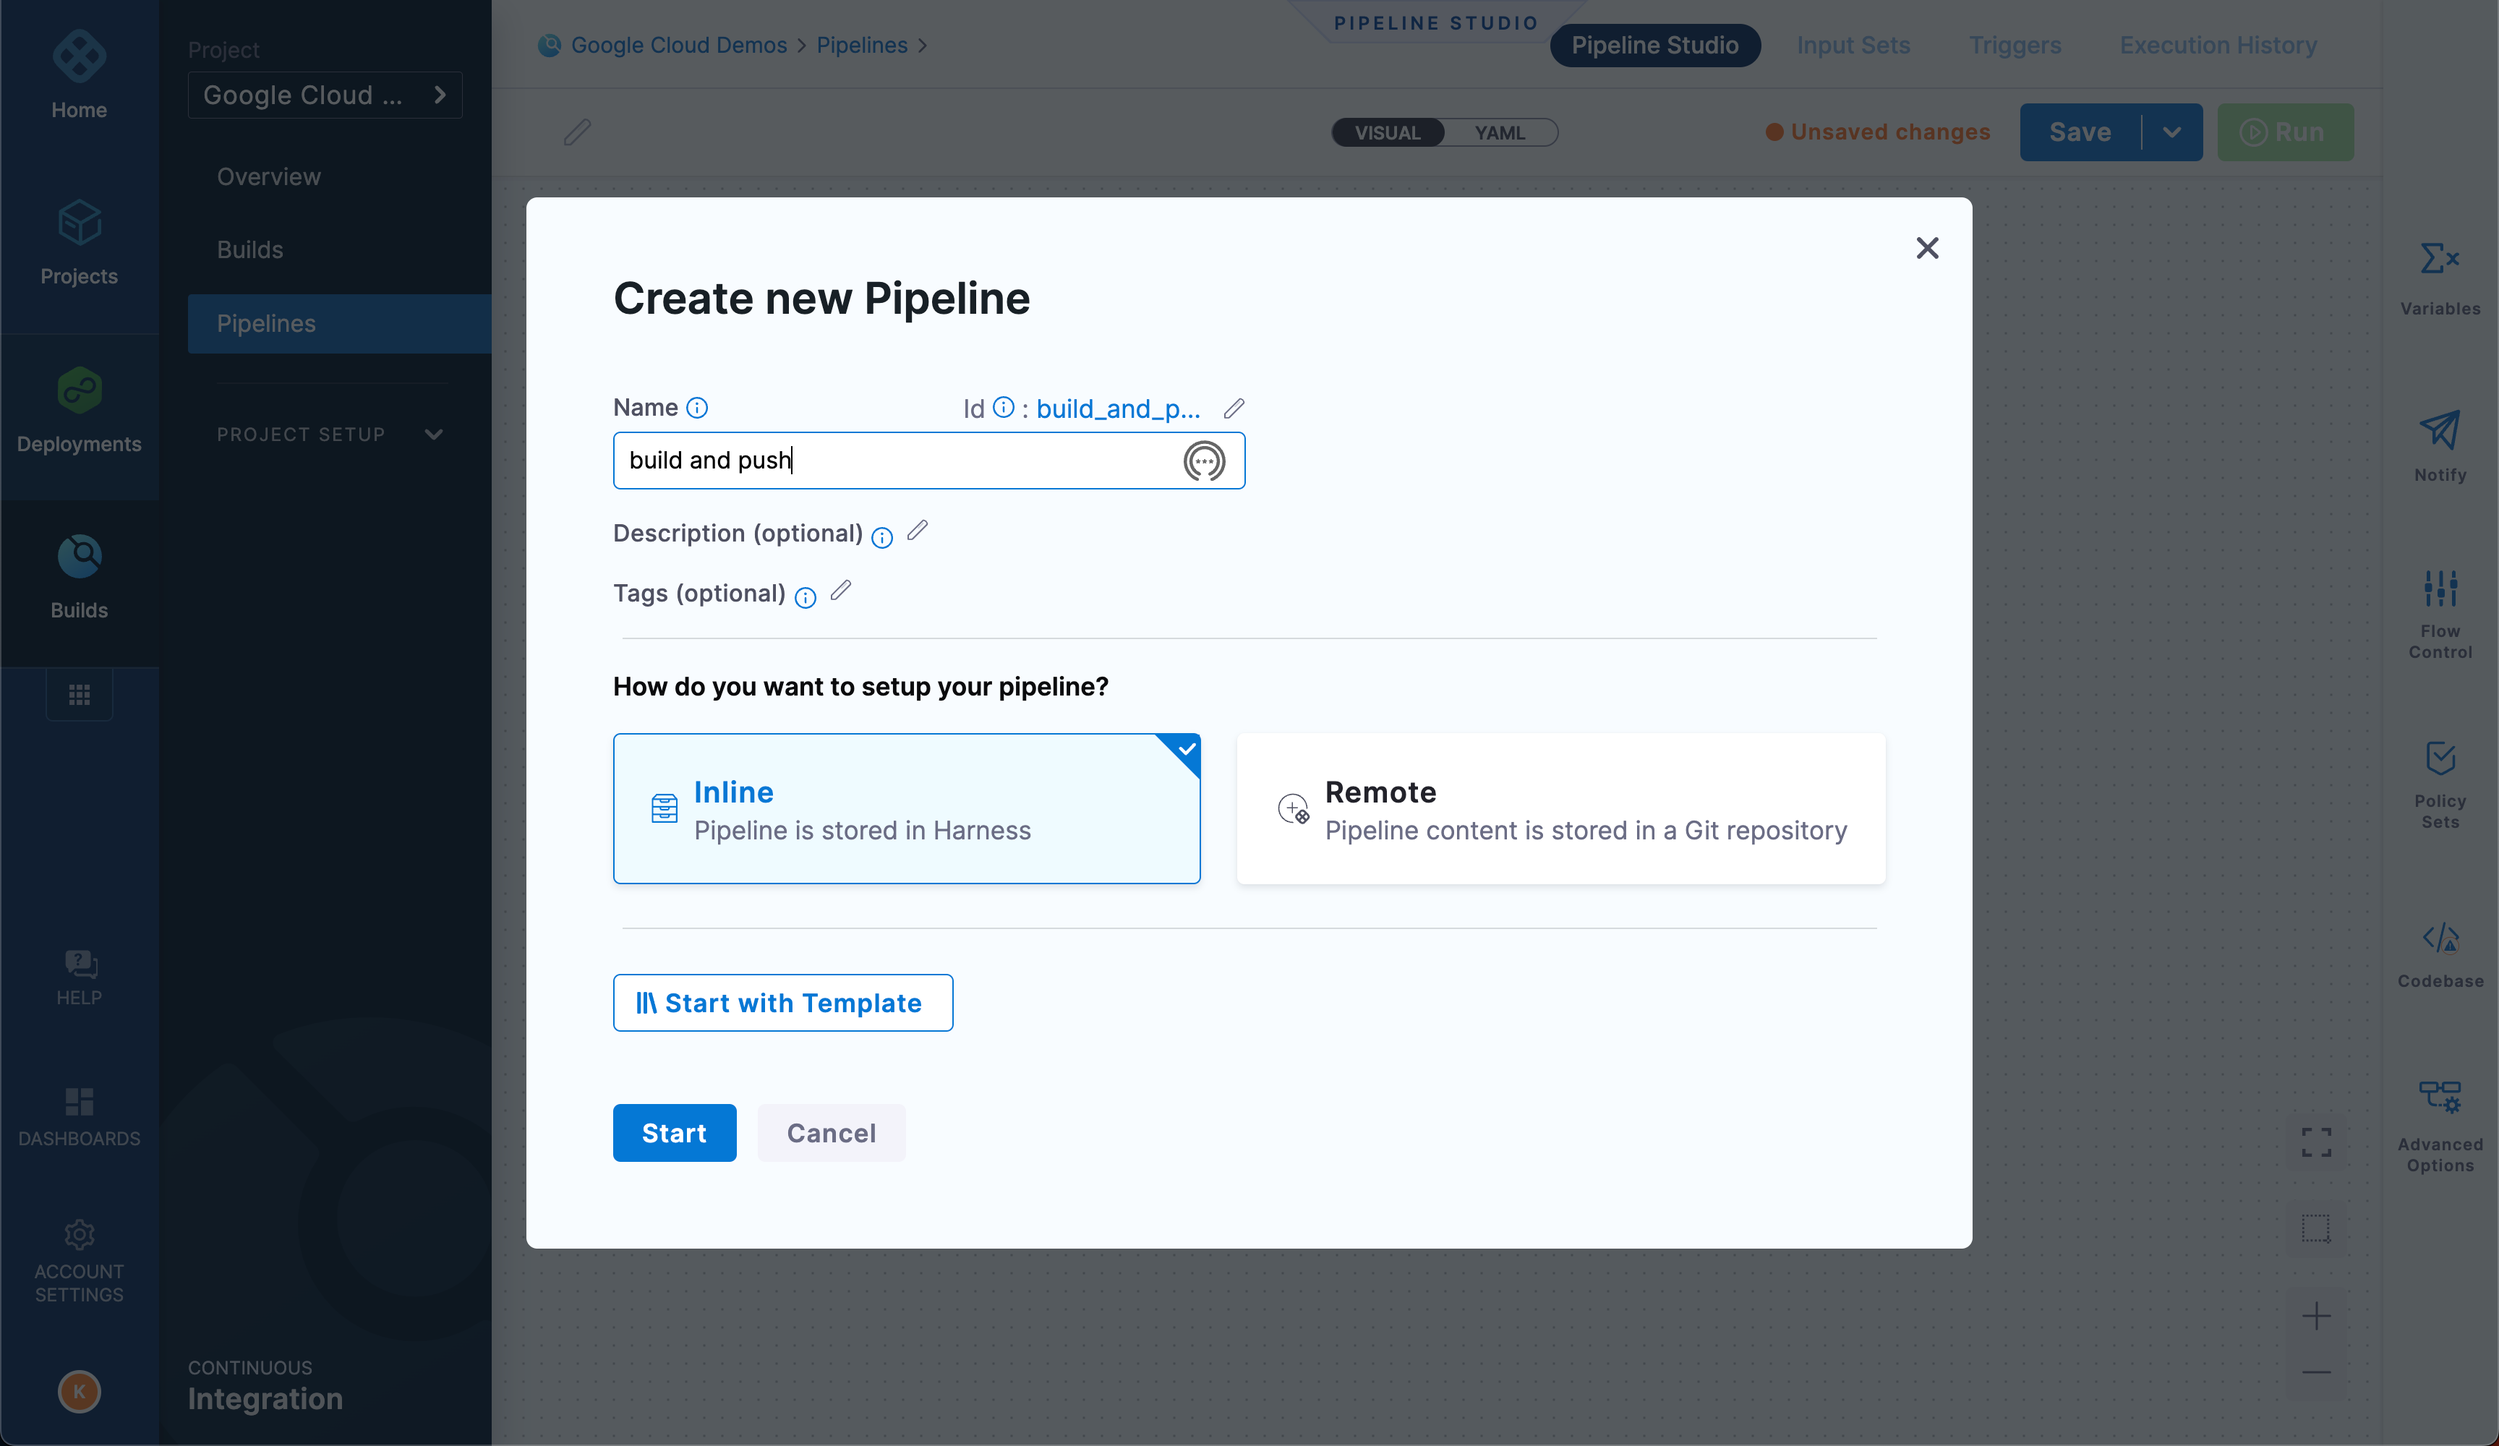
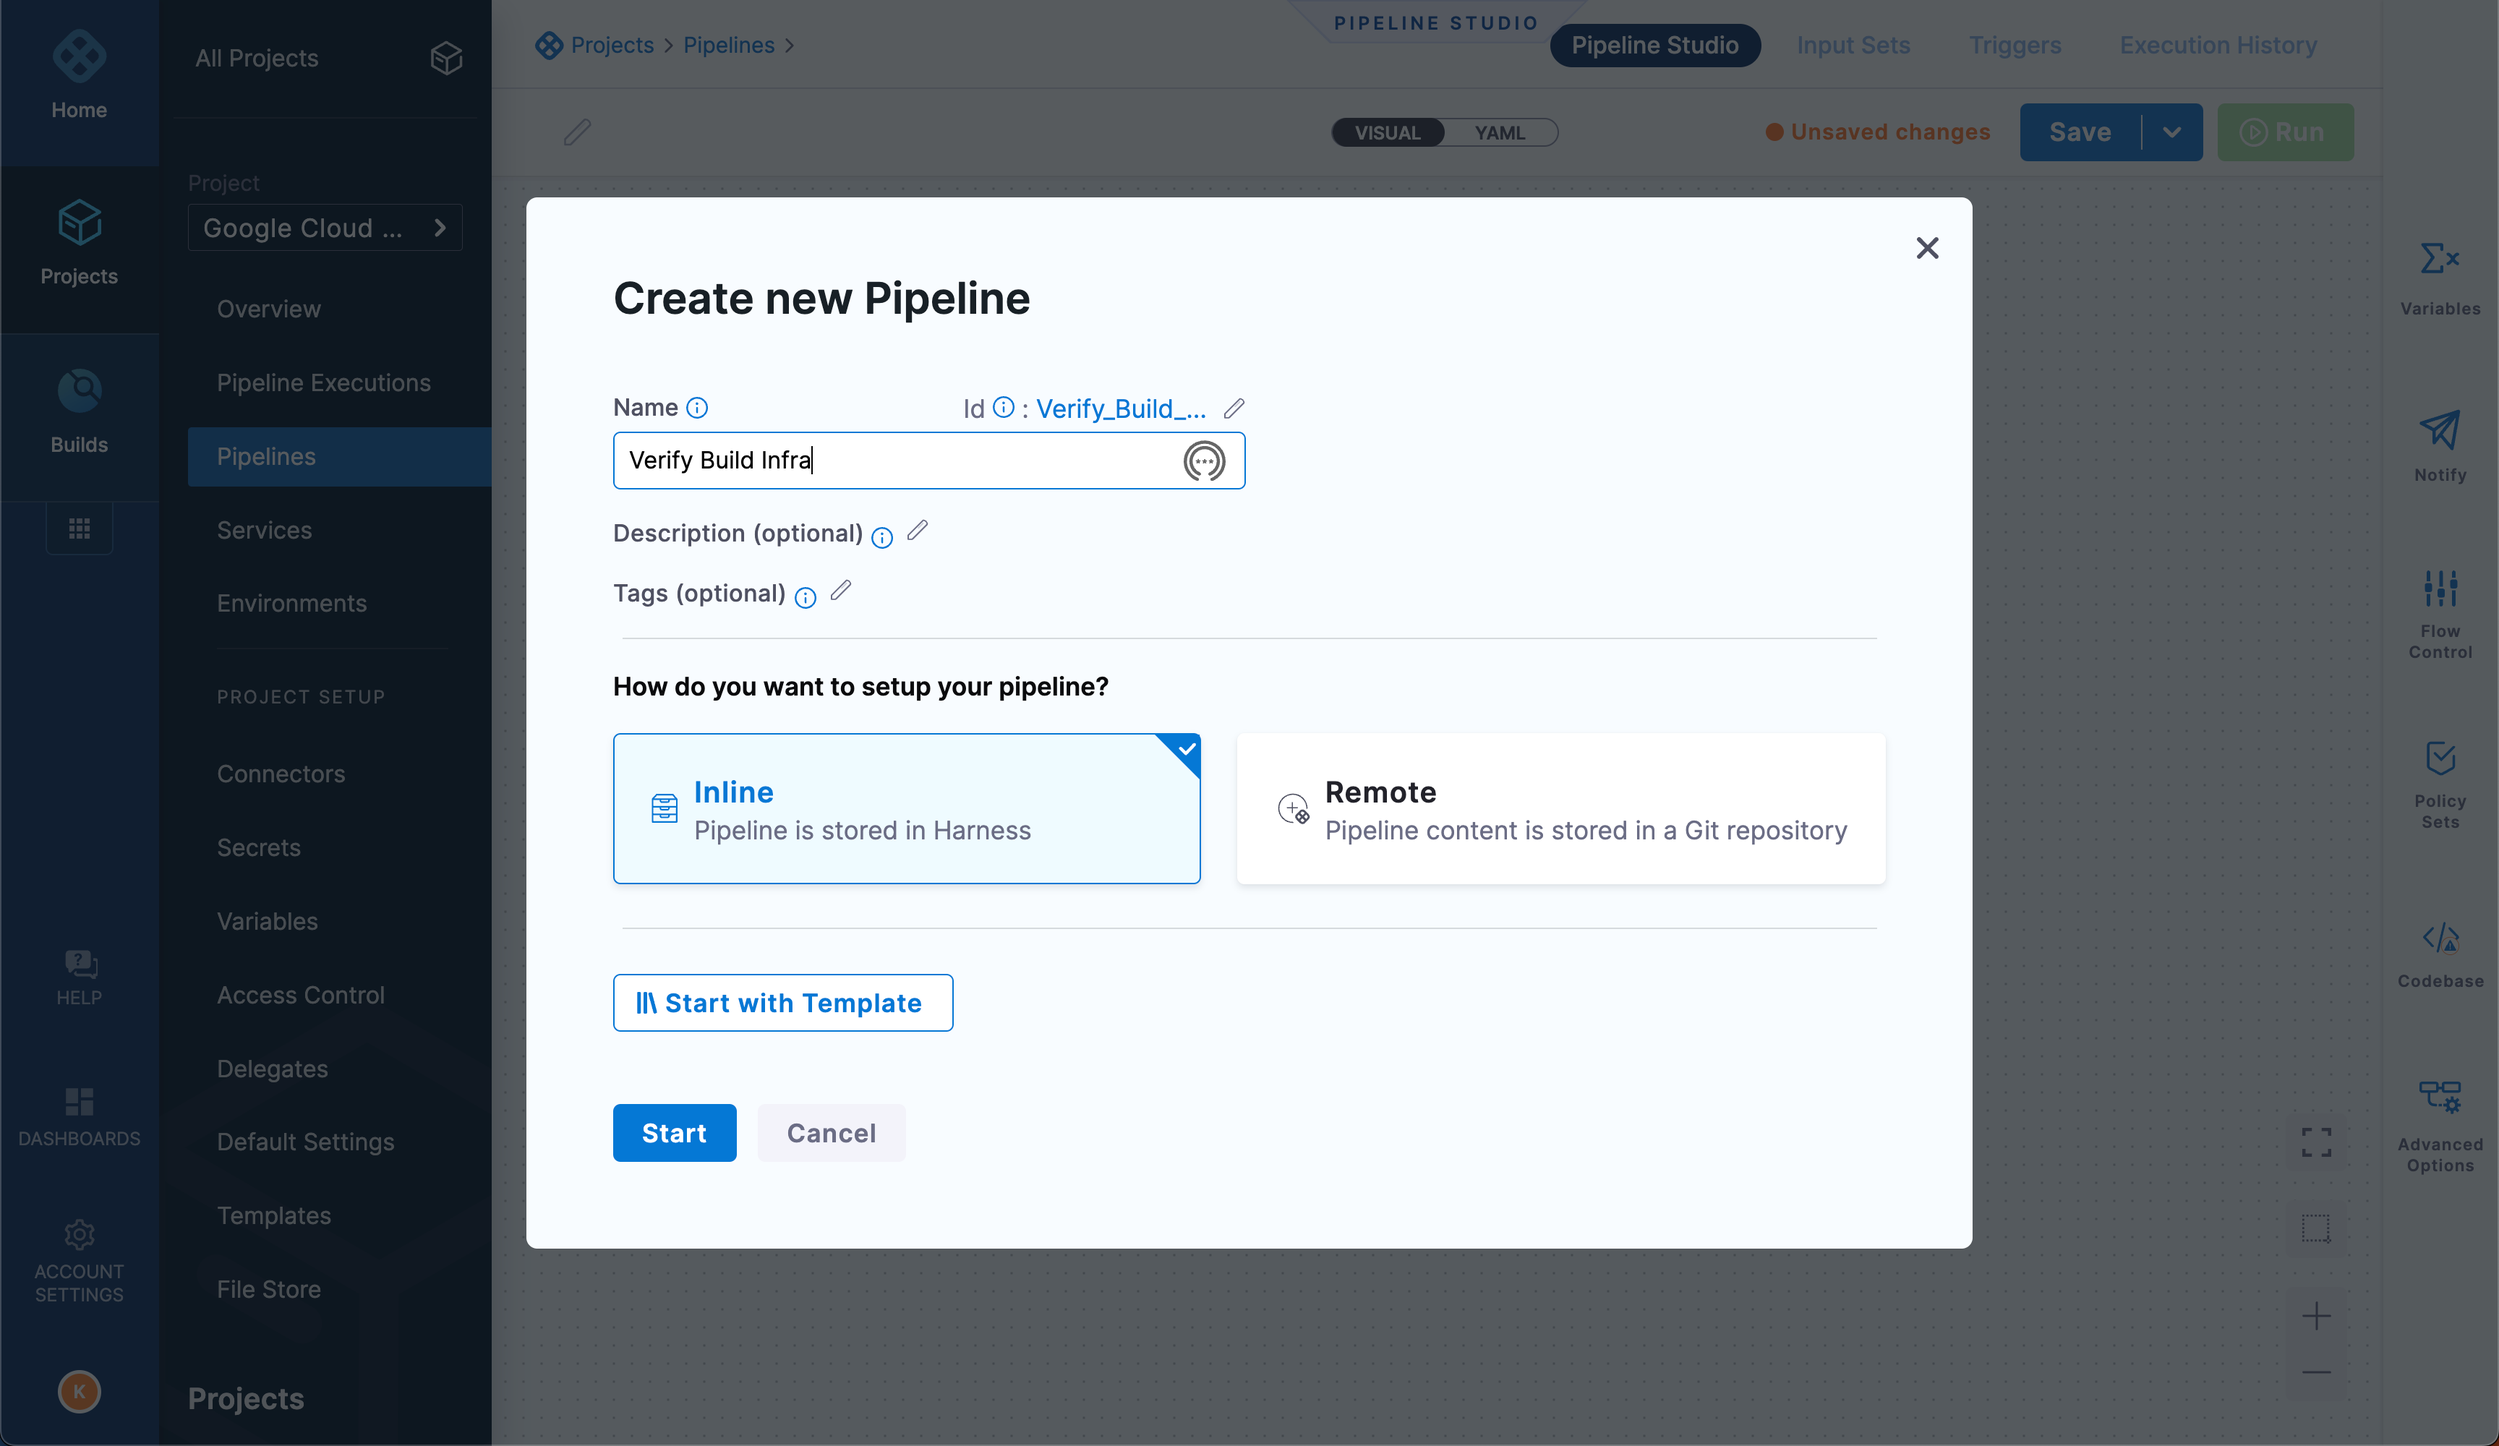
WIP: firewall

diff --git a/docs/.deployment.md b/docs/.deployment.md
@@ -5,16 +5,8 @@ We will use terraform to create a GKE cluster with `WorkloadIdentity` enabled fo
 ```shell
 task init
 ```
-
-### Create GKE cluster
-
-The terraform apply will creates a Kubernetes(GKE) Cluster,
-
-```shell
-task create_cluster
-```
   
-### Deploy Harness Delegate
+## Deploy Harness Delegate
 
 Ensure you have the following values set in the `.local.tfvars` before running the `task apply` command.
 
@@ -29,13 +21,18 @@ Ensure you have the following values set in the `.local.tfvars` before running t
 ![copy](docs/images/harness_delegate_default_token.png)
 
 - `harness_delegate_name`: defaults to **harness-delegate**
-- `harness_delegate_namespace`: defaults to **harness-delegate-ng**
 
 ```shell
-task deploy_harness_delegate
+task create_delegate_infra
 ```
 
-Wait for the delegate to be connected before proceeding to next steps. 
+All the Drone runner artifacts will be created in "$PROJECT_HOME/runner". These include,
+
+- `pool.yml`  - The Drone Runner VM pool
+- `docker-compose.yml` - The Harness Delegate Docker Compose file
+- `sa.json` - Google Service Account key to be used by Harness Delegate VM
+
+Wait for the delegate to be connected before proceeding to next steps.
 
 You can view status of the delegate from the **Project** --> **Project Setup** --> **Delegates** page,
 
@@ -43,32 +40,7 @@ You can view status of the delegate from the **Project** --> **Project Setup** -
   
 ## Build Application
 
-Let us build the application using Harness CI pipeline.
-
-### Import Template
-
-The sources already has [build stage](.harness/ko_gar_build_push_1.yaml) template that can be used to create the CI pipeline.
-
-Navigate to your Harness Account, **Account Overview** --> **Organizations** and select **default** organization.
-
-![default org select](docs/images/account_overview.png)
-
-From the organization overview page select **Templates**,
-
-![templates select](docs/images/org_overview.png)
-
-Click **New Template** and choose **Import From Git** option,
-
-![import from git](docs/images/import_from_git.png)
-
-Fill the wizard with values as shown,
-
-![import from git details](docs/images/import_from_git_details.png)
-
->**NOTE**: If you want to use your fork of `harness-apps/workload-identity-gke-demo` then update _Repository_ with your fork.
->
-
-![import template successful](docs/images/import_template_successful.png)
+Let us build an example application using the GCP VM Infra.
 
 ## Create Pipeline
 
@@ -76,26 +48,53 @@ Navigate to **Builds** --> **Pipelines**, click **Create Pipeline**.
 
 ![create pipeline](docs/images/create_pipeline.png)
 
-Click **Add Stage** and click **Use template**, choose **ko_gar_build_push** template that we imported earlier and click **Use template** to complete import.
+Click **Add Stage**, select stage type to be **Build**
 
-Enter details about the stage,
+![build_stage](docs/images/add_build_stage.png)
+
+Enter details about the stage, since we are testing the infra we will skip the **Clone Codebase**,
 
 ![stage details](docs/images/stage_details.png)
 
-Click **Setup Stage** to crate the stage and fill other details i.e **Template Inputs**,
+Click **Setup Stage** to create the stage.
 
-![template inputs](docs/images/template_inputs.png)
+Select the **Infrastructure** tab and select the **Infrastructure** to be **VMs**, **Platform** to be **Linux** with **Pool Name** set to our VM infra pool **debian-bullseye**.
 
-We use `default` namespace to run builder pods. The build pod runs with a Kubernetes Service Account(KSA) `harness-builder`.
+![infra_details](docs/images/infra_details.png)
 
-> **NOTE**:
-> The `harness-builder` KSA is mapped to Google IAM Service Account(GSA) `harness-delegate` to inherit the GCP roles using Workload Identity in this case to push the images to Google Artifact Registry(GAR).
->
+Click **Continue** to add **Step**, click **Add Step** on the **Execution** tab to add a step of type **Run** and configure the step details as shown,
+
+![configure run step](docs/images/configure_run_step.png)
+
+The following script used as part of the build step just runs a for minute printing _I am building something will be done soon!_ at every 10 second interval.
+
+```shell
+set -exo pipefail
+curr_m=$(date "+%M")
+((curr_m+=1))
+while [ "$(date "+%M")" -lt "$curr_m" ]; do
+    echo "I am building something will be done soon!"
+    sleep 10
+done
+```
+
+Click **Save** to complete the Pipeline creation,
+
+![pipeline details](docs/images/pipeline_overview.png)
+
+Since we have configured the pool count to be `1` in `pool.yml`, there should one runner VM created to consume builds. Run the following command to view them,
+
+```shell
+task runners
+```
+
+The command should show an output like,
+
+```shell
+NAME                                       ZONE           MACHINE_TYPE   PREEMPTIBLE  INTERNAL_IP  EXTERNAL_IP     STATUS
+gcp-runner-debian-bullseye-hg4cfidf-ggd83  asia-south1-c  e2-standard-4               10.20.0.2    35.200.192.214  RUNNING
+```
 
 Click **Run** to run the pipeline to see the image build and pushed to GAR.
 
 ![Run Pipeline](docs/images/run_pipeline.png)
-
-As successful run would have pushed the image into GAR in this example its `asia-south1-docker.pkg.dev/pratyakshika/demos/lingua-greeter:latest`
-
-![Build Success](docs/images/build_success.png)

diff --git a/docs/.header.md b/docs/.header.md
@@ -1,8 +1,10 @@
-# Using Workload Identity
+# Harness CIE GCP VM Infra
 
-A demo to show how to use [Workload Identity](https://cloud.google.com/kubernetes-engine/docs/concepts/workload-identity) with Harness Pipelines.
+Terraform automation scripts provision and configure a [Google Cloud Platform](https://cloud.google.com) infrastructure to run Harness CIE builds.
 
-In this demo we will build Harness CI pipeline that will use GKE as its build infrastructure. As part of the build infrastructure on GKE we will deploy a Harness Delegate to run our CI pipelines on our GKE.
+> IMPORTANT
+>
+> Currently, this feature is behind the Feature Flag `CI_VM_INFRASTRUCTURE`. Contact [Harness Support](mailto:support@harness.io) to enable the feature.
 
 ## Pre-requisites
 
@@ -20,11 +22,8 @@ In this demo we will build Harness CI pipeline that will use GKE as its build in
       - iam.serviceAccounts.setIamPolicy
      Or simply you can add `Service Account Admin` and `Service Account User` roles
     - `Compute Network Admin`   - to create the VPC networks
-  - Enable Cloud Run API on the Google Cloud Project, if you plan to deploy to Google Cloud Run
 - [Google Cloud SDK](https://cloud.google.com/sdk)
 - [terraform](https://terraform.build)
-- [kubectl](https://kubernetes.io/docs/tasks/tools/)
-- [helm](https://helm.sh)
 - [Taskfile](https://taskfile.dev)
 
 Ensure that you have the following Harness Account Details,
@@ -34,7 +33,6 @@ Ensure that you have the following Harness Account Details,
 
 ### Optional tools
 
-- [kustomize](https://kustomize.io)
 - [direnv](https://direnv.net)
 
 ## Download Sources
@@ -42,18 +40,27 @@ Ensure that you have the following Harness Account Details,
 Clone the sources,
 
 ```shell
-git clone https://github.com/harness-apps/workload-identity-gke-demo.git && cd "$(basename "$_" .git)"
-export DEMO_HOME="$PWD"
+git clone https://github.com/harness-apps/cie-gcp-infra.git && cd "$(basename "$_" .git)"
+export PROJECT_HOME="$PWD"
 ```
 
 (OR) If you are using zsh, then you can use the following commands
 
 ```shell
-take  https://github.com/harness-apps/workload-identity-gke-demo.git
-export DEMO_HOME="$PWD"
+take  https://github.com/harness-apps/cie-gcp-infra.git
+export PROJECT_HOME="$PWD"
 ```
 
 ## Environment Setup
+
+### Create SSH Key Pair
+
+Create the SSH key pair(public and private keys) that allows connecting to GCP VM via ssh,
+
+```shell
+mkdir -p "$PROJECT_HOME/.keys"
+ssh-keygen -trsa -f .keys/delegate_id_rsa -C "$USER"
+```
 
 ### Variables
 

diff --git a/docs/.vars-example.md b/docs/.vars-example.md
@@ -6,8 +6,6 @@ You may need to update following values with actuals from your Harness Account,
 
 - `harness_account_id`
 - `harness_delegate_token`
-- `harness_delegate_namespace`
-- `harness_manager_endpoint`
 
 > **NOTE**:
 > 
@@ -18,14 +16,9 @@ You may need to update following values with actuals from your Harness Account,
 ```hcl
 project_id                 = "pratyakshika"
 region                     = "asia-south1"
-cluster_name               = "wi-demos"
-kubernetes_version         = "1.24."
-install_harness_delegate   = true
 harness_account_id         = "REPLACE WITH YOUR HARNESS ACCOUNT ID"
 harness_delegate_token     = "REPLACE WITH YOUR HARNESS DELEGATE TOKEN"
-harness_delegate_name      = "wi-demos-delegate"
-harness_delegate_namespace = "harness-delegate-ng"
-harness_manager_endpoint   = "https://app.harness.io/gratis"
+harness_delegate_name      = "my-gcp-harness-delegate"
 ```
 
-> **NOTE**: For rest of the section we assume that your tfvars file is called `my.local.tfvars`
+> **NOTE**: For rest of the section we assume that your tfvars file is called `.local.tfvars`

diff --git a/docs/.footer.md b/docs/.footer.md
@@ -3,7 +3,7 @@
 - [Harness CI](https://app.harness.io/auth/#/signup/?module=ci?utm_source=internal&utm_medium=social&utm_campaign=community&utm_content=kamesh-github&utm_term=diy-demos)
 - [Developer Hub](https://developer.harness.io)
 - [Harness Delegate](https://developer.harness.io/tutorials/platform/install-delegate/)
-- [Workload Identity](https://cloud.google.com/kubernetes-engine/docs/how-to/workload-identity)
+- [GCP VM Build Infra](https://developer.harness.io/docs/continuous-integration/use-ci/set-up-build-infrastructure/vm-build-infrastructure/define-a-ci-build-infrastructure-in-google-cloud-platform/)
 
 ## License
 
